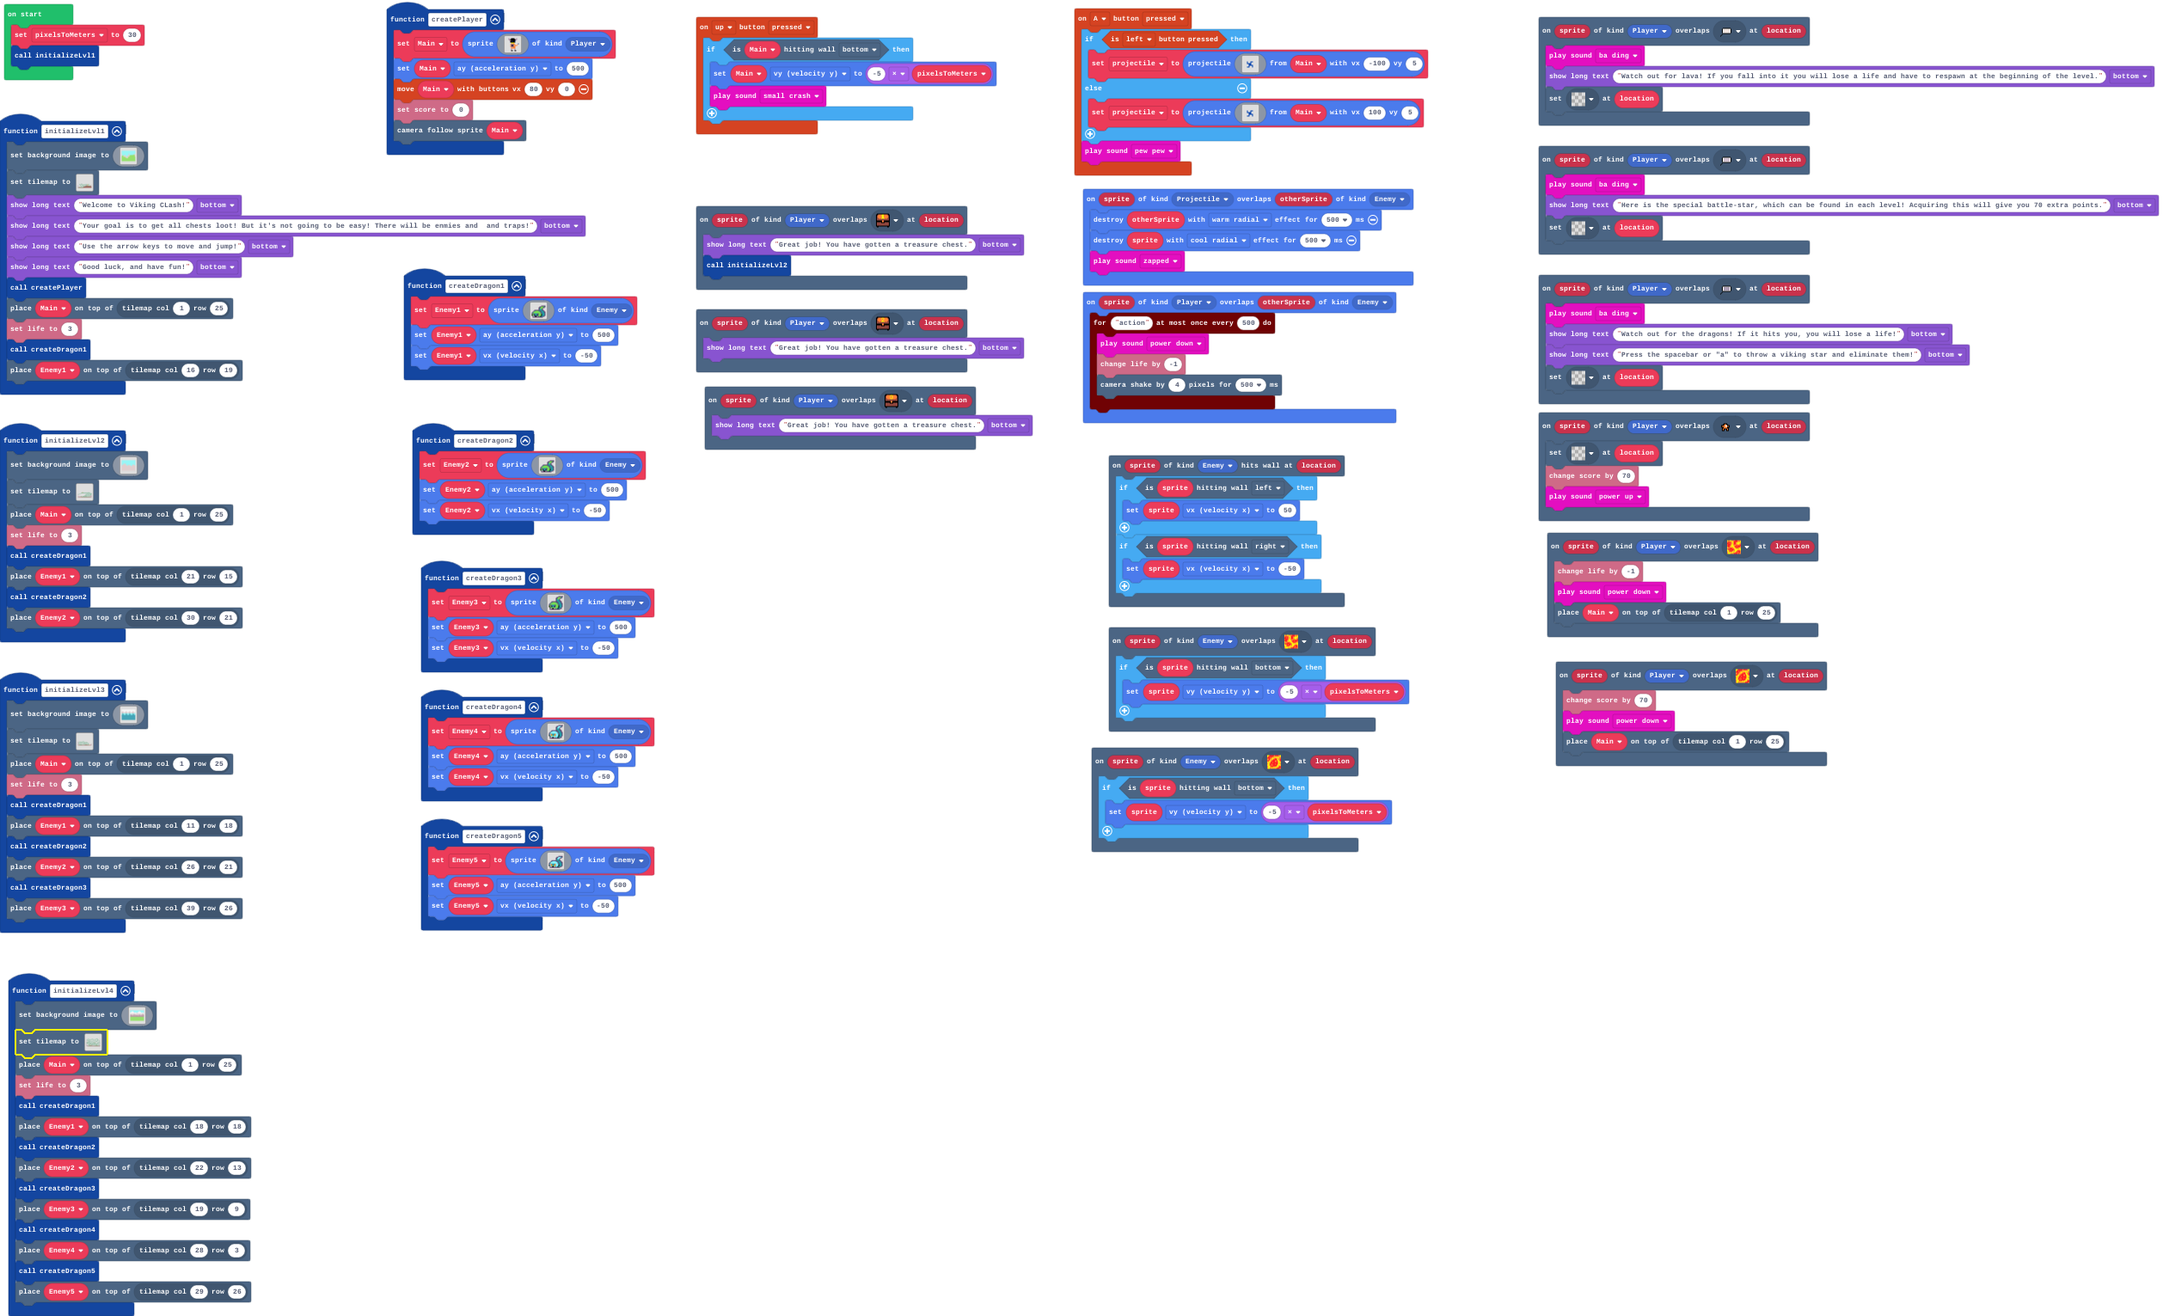
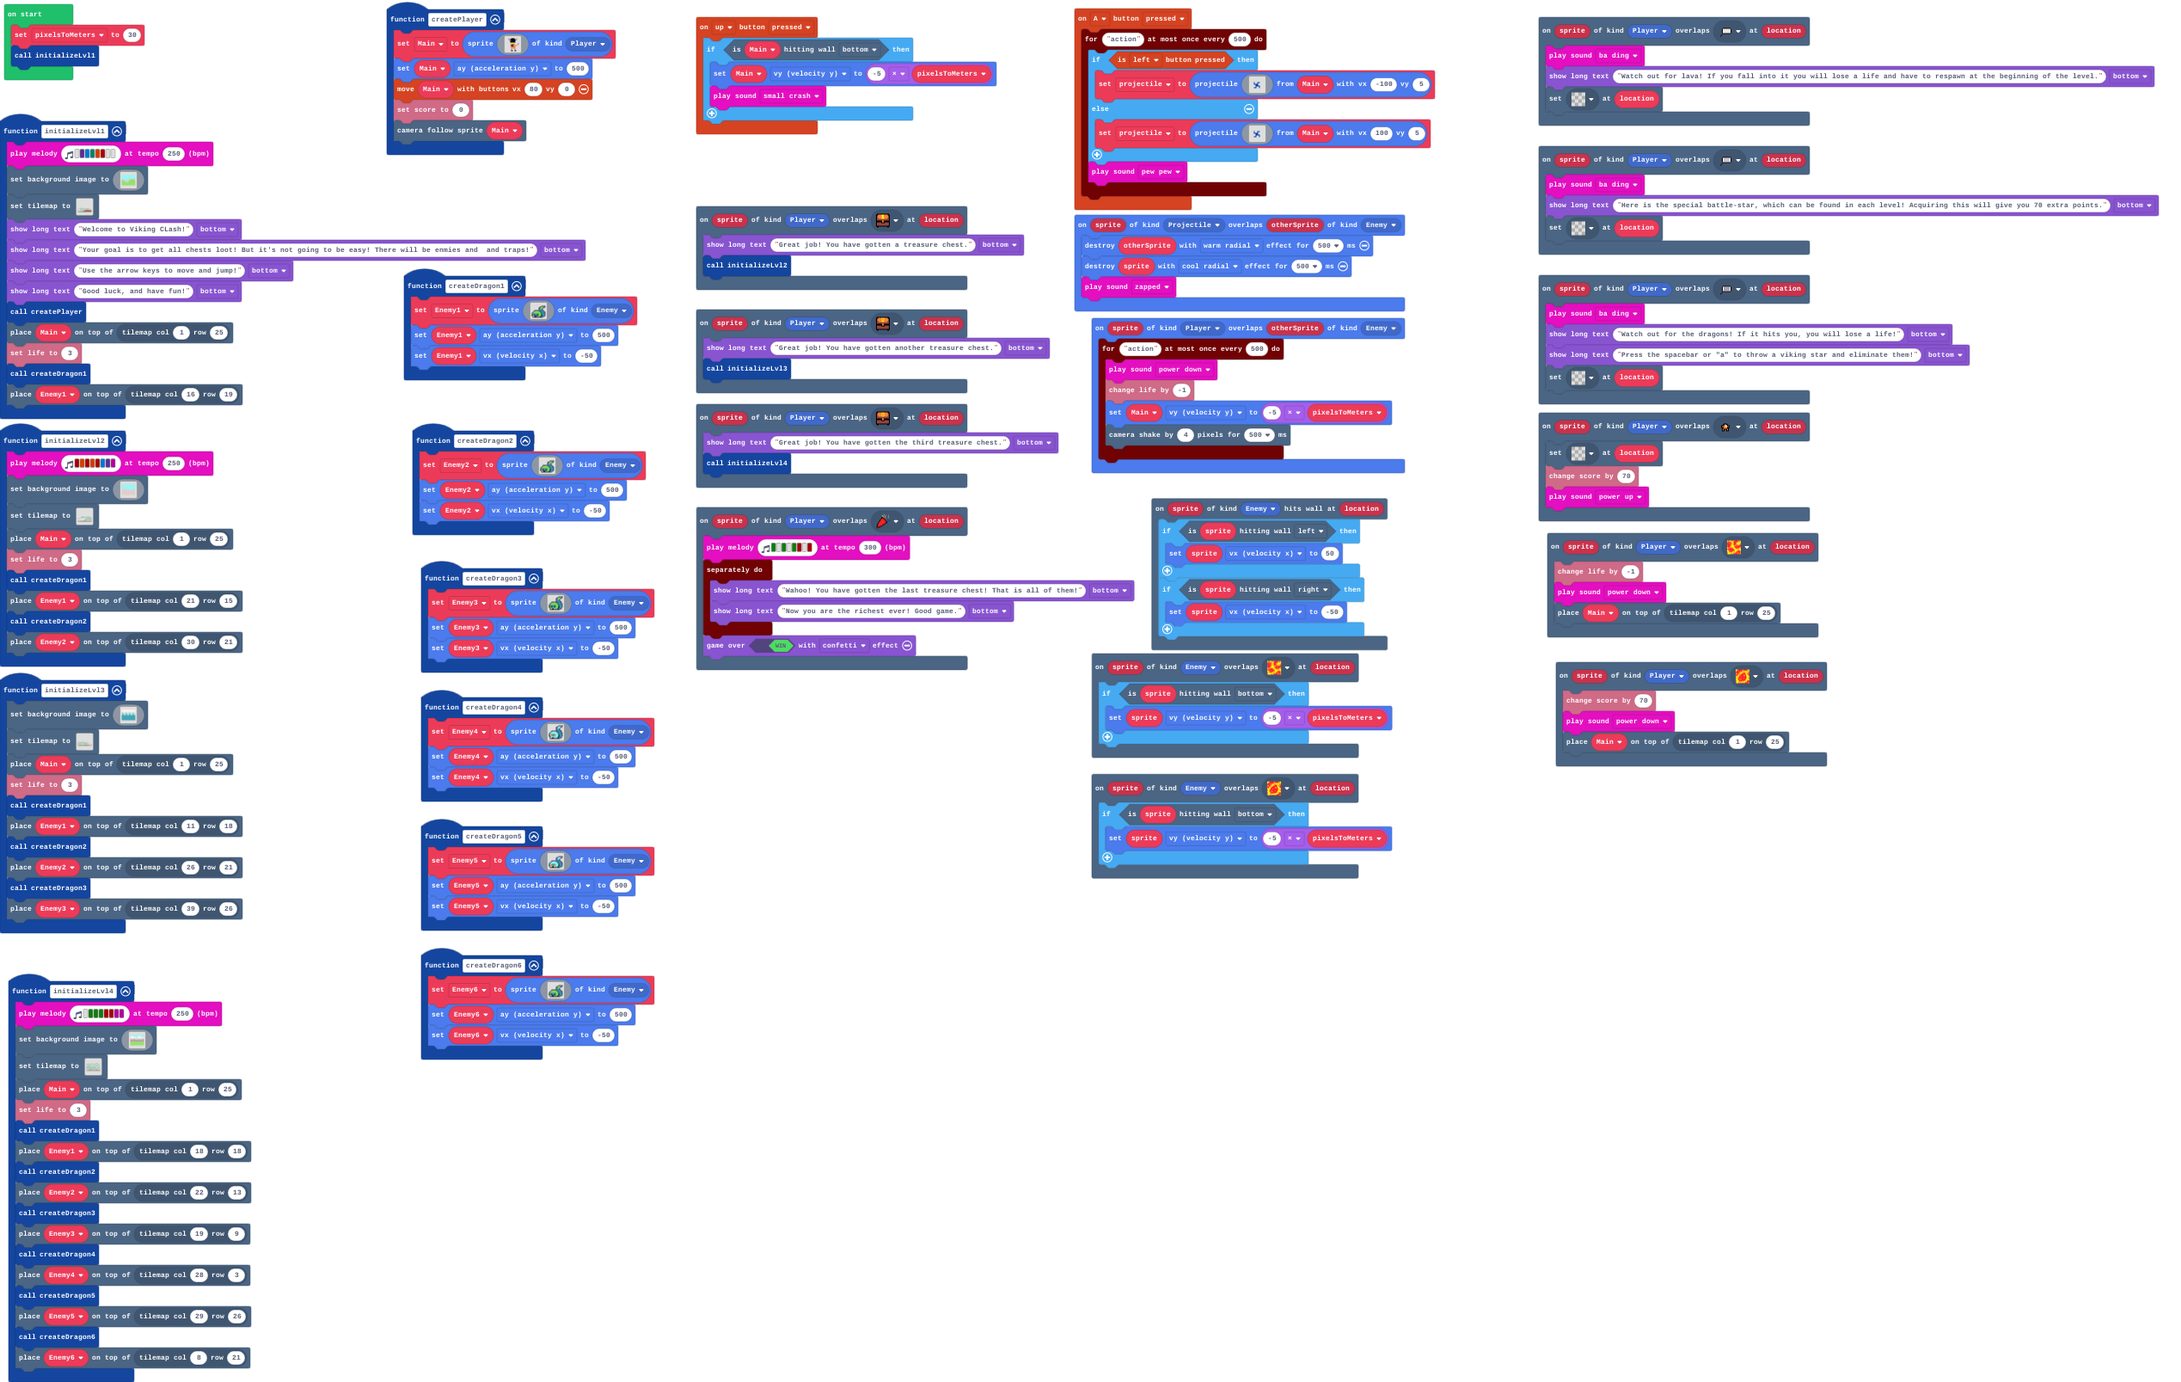
finished-1

Changed region(s): [[0.0, 0.0, 0.6539, 1.0], [0.6851, 0.0, 0.9965, 0.5833], [0.1557, 0.0, 0.2803, 0.1228]]

diff --git a/tilemap.g.ts b/tilemap.g.ts
@@ -25,9 +25,9 @@ namespace myTiles {
     //% fixedInstance jres blockIdentity=images._tile
     export const tile4 = image.ofBuffer(hex``);
     //% fixedInstance jres blockIdentity=images._tile
-    export const tile12 = image.ofBuffer(hex``);
-    //% fixedInstance jres blockIdentity=images._tile
     export const tile13 = image.ofBuffer(hex``);
+    //% fixedInstance jres blockIdentity=images._tile
+    export const tile12 = image.ofBuffer(hex``);
 
     helpers._registerFactory("tilemap", function(name: string) {
         switch(helpers.stringTrim(name)) {
@@ -50,39 +50,6 @@ namespace myTiles {
 . . . . . . . . . . . . . . . . 
 . . . . . . . . . . . . . . . . 
 `, [myTiles.transparency16], TileScale.Sixteen);
-            case "lvl2":
[1 lines of base64/hex data omitted]
-........................................
-........................................
-........................................
-........................................
-........................................
-........................................
-........................................
-........................................
-........................................
-........................................
-........................................
-........................................
-........................................
-........................................
-........................................
-........................................
-............2..2...............2........
-..........22222222222222222222222222....
-.........2............................2.
-........2............................222
-....2.2...................2........2..22
-..2......................2.22222222.2.2.
-2......................22.............2.
-2.....................2..............2..
-2....................2..2222222222222..2
-2...................2.2................2
-222...............2....2.............222
-2222......2......2...2..2...........2222
-222222222.222222222222222222222222222222
-........................................
-`, [myTiles.transparency16,myTiles.tile3,myTiles.tile1,myTiles.tile6,myTiles.tile8,sprites.builtin.forestTiles0,sprites.builtin.forestTiles2,sprites.dungeon.floorDark1,sprites.dungeon.floorDark0,sprites.dungeon.floorLightMoss,sprites.dungeon.floorLight4,sprites.dungeon.floorLight1,sprites.dungeon.floorLight0,sprites.dungeon.floorDarkDiamond,sprites.dungeon.floorDark4,sprites.dungeon.hazardLava0,myTiles.tile4,sprites.castle.rock0,sprites.dungeon.hazardLava1,sprites.dungeon.floorMixed,sprites.dungeon.floorLight5], TileScale.Sixteen);
             case "level6":
             case "level6":return tiles.createTilemap(hex`1000100000000000000000000000000000000000000000000000000000000000000000000000000000000000000000000000000000000000000000000000000000000000000000000000000000000000000000000000000000000000000000000000000000000000000000000000000000000000000000000000000000000000000000000000000000000000000000000000000000000000000000000000000000000000000000000000000000000000000000000000000000000000000000000000000000000000000000000000000000000000000000000000000000000000000000000000000000000000000000000000000000000000000000000000000000000000`, img`
 . . . . . . . . . . . . . . . . 
@@ -135,39 +102,6 @@ namespace myTiles {
 2222.222222222222222222222.........222222..2222222
 ..................................................
 `, [myTiles.transparency16,myTiles.tile3,myTiles.tile1,sprites.dungeon.floorMixed,sprites.dungeon.floorDark0,sprites.dungeon.floorDark1,sprites.dungeon.floorDark4,sprites.dungeon.floorLightMoss,sprites.dungeon.floorLight4,myTiles.tile2,myTiles.tile4,sprites.builtin.forestTiles2,sprites.builtin.forestTiles0,sprites.dungeon.floorLight1,sprites.dungeon.floorLight0,sprites.dungeon.floorDarkDiamond,sprites.builtin.forestTiles1,sprites.builtin.forestTiles22,sprites.builtin.forestTiles23,sprites.dungeon.hazardLava0,myTiles.tile11,myTiles.tile6,sprites.dungeon.hazardLava1], TileScale.Sixteen);
-            case "lvl1":
[1 lines of base64/hex data omitted]
-........................................
-........................................
-........................................
-........................................
-........................................
-........................................
-........................................
-........................................
-........................................
-........................................
-........................................
-........................................
-........................................
-........................................
-........................................
-........................................
-........................................
-........................................
-........................................
-....2...2222............................
-.....2......2.........222222.2222.......
-......2......222222222...........2.....2
-2......2................22.............2
-2.......2..............2...2.2........22
-2........22222222.....22.222222222222222
-2.................2.22222222222222222222
-22...............22222222222222222222222
-22......2.......222222222222222222222222
-222222.222222222222222222222222222222222
-2222222222222222222222222222222222222222
-`, [myTiles.transparency16,sprites.builtin.forestTiles22,myTiles.tile1,myTiles.tile2,sprites.dungeon.floorLightMoss,sprites.dungeon.floorDark1,sprites.dungeon.floorDark4,sprites.dungeon.floorMixed,sprites.dungeon.floorLight4,sprites.builtin.forestTiles4,myTiles.tile3,sprites.builtin.forestTiles2,sprites.builtin.forestTiles1,sprites.builtin.forestTiles3,sprites.castle.rock1,sprites.castle.rock0,myTiles.tile4,myTiles.tile5,sprites.dungeon.hazardLava1,myTiles.tile6,myTiles.tile7,sprites.builtin.forestTiles0,sprites.dungeon.hazardLava0,sprites.dungeon.floorLight1,sprites.dungeon.floorLight0,myTiles.tile10,myTiles.tile13], TileScale.Sixteen);
             case "level7":
             case "level7":return tiles.createTilemap(hex`1000100000000000000000000000000000000000000000000000000000000000000000000000000000000000000000000000000000000000000000000000000000000000000000000000000000000000000000000000000000000000000000000000000000000000000000000000000000000000000000000000000000000000000000000000000000000000000000000000000000000000000000000000000000000000000000000000000000000000000000000000000000000000000000000000000000000000000000000000000000000000000000000000000000000000000000000000000000000000000000000000000000000000000000000000000000000000`, img`
 . . . . . . . . . . . . . . . . 
@@ -220,6 +154,72 @@ namespace myTiles {
 222222222222222.22222222222222222222.2222222222222
 222222............................................
 `, [myTiles.transparency16,myTiles.tile1,sprites.dungeon.floorLightMoss,sprites.dungeon.floorDark1,sprites.dungeon.floorDark0,sprites.dungeon.floorMixed,sprites.dungeon.floorLight4,sprites.dungeon.floorDarkDiamond,sprites.dungeon.floorLight5,sprites.dungeon.floorDark2,sprites.dungeon.floorDark5,sprites.dungeon.floorLight2,sprites.builtin.forestTiles2,myTiles.tile2,myTiles.tile6,myTiles.tile12,sprites.builtin.forestTiles0,sprites.dungeon.floorLight1,sprites.dungeon.floorLight0,sprites.dungeon.hazardLava1,sprites.dungeon.hazardLava0,myTiles.tile4,sprites.dungeon.floorDark4], TileScale.Sixteen);
+            case "lvl2":
[1 lines of base64/hex data omitted]
+........................................
+........................................
+........................................
+........................................
+........................................
+........................................
+........................................
+........................................
+........................................
+........................................
+........................................
+........................................
+........................................
+........................................
+........................................
+........................................
+............2..2...............2........
+..........22222222222222222222222222....
+.........2............................2.
+........2............................222
+....2.2...................2........2..22
+..2......................2.22222222.2.2.
+2......................22.............2.
+2.....................2..............2..
+2....................2..2222222222222..2
+2...................2.2................2
+222...............2....2.............222
+2222......2......2.2....2...........2222
+222222222.222222222222222222222222222222
+........................................
+`, [myTiles.transparency16,myTiles.tile3,myTiles.tile1,myTiles.tile6,myTiles.tile8,sprites.builtin.forestTiles0,sprites.builtin.forestTiles2,sprites.dungeon.floorDark1,sprites.dungeon.floorDark0,sprites.dungeon.floorLightMoss,sprites.dungeon.floorLight4,sprites.dungeon.floorLight1,sprites.dungeon.floorLight0,sprites.dungeon.floorDarkDiamond,sprites.dungeon.floorDark4,sprites.dungeon.hazardLava0,myTiles.tile4,sprites.castle.rock0,sprites.dungeon.hazardLava1,sprites.dungeon.floorMixed,sprites.dungeon.floorLight5], TileScale.Sixteen);
+            case "lvl1":
[1 lines of base64/hex data omitted]
+........................................
+........................................
+........................................
+........................................
+........................................
+........................................
+........................................
+........................................
+........................................
+........................................
+........................................
+........................................
+........................................
+........................................
+........................................
+........................................
+........................................
+2.......................................
+2.......................................
+2...2...2222...........................2
+2....2......2.........222222.2222......2
+2.....2......222222222...........2.....2
+2......2...............................2
+2.......2..................2.2........22
+2........22222222.....22.222222222222222
+2.................2.22222222222222222222
+22...............22222222222222222222222
+22......2.......222222222222222222222222
+222222.222222222222222222222222222222222
+2222222222222222222222222222222222222222
+`, [myTiles.transparency16,sprites.builtin.forestTiles22,myTiles.tile1,myTiles.tile2,sprites.dungeon.floorLightMoss,sprites.dungeon.floorDark1,sprites.dungeon.floorDark4,sprites.dungeon.floorMixed,sprites.dungeon.floorLight4,sprites.builtin.forestTiles4,myTiles.tile3,sprites.builtin.forestTiles2,sprites.builtin.forestTiles1,sprites.builtin.forestTiles3,sprites.castle.rock1,myTiles.tile4,myTiles.tile5,sprites.dungeon.hazardLava1,myTiles.tile6,myTiles.tile7,sprites.builtin.forestTiles0,sprites.dungeon.hazardLava0,sprites.dungeon.floorLight1,sprites.dungeon.floorLight0,myTiles.tile10,myTiles.tile13], TileScale.Sixteen);
         }
         return null;
     })
@@ -249,10 +249,10 @@ namespace myTiles {
             case "tile7":return tile7;
             case "battleStar":
             case "tile4":return tile4;
-            case "chest4":
-            case "tile12":return tile12;
             case "Chat3":
             case "tile13":return tile13;
+            case "confetti":
+            case "tile12":return tile12;
         }
         return null;
     })

diff --git a/main.ts b/main.ts
@@ -10,12 +10,14 @@ function createDragon4 () {
     Enemy4.vx = -50
 }
 controller.A.onEvent(ControllerButtonEvent.Pressed, function () {
-    if (controller.left.isPressed()) {
-        projectile = sprites.createProjectileFromSprite(assets.image`vikingStar`, Main, -100, 5)
-    } else {
-        projectile = sprites.createProjectileFromSprite(assets.image`vikingStar`, Main, 100, 5)
-    }
-    music.pewPew.play()
+    timer.throttle("action", 500, function () {
+        if (controller.left.isPressed()) {
+            projectile = sprites.createProjectileFromSprite(assets.image`vikingStar`, Main, -100, 5)
+        } else {
+            projectile = sprites.createProjectileFromSprite(assets.image`vikingStar`, Main, 100, 5)
+        }
+        music.pewPew.play()
+    })
 })
 scene.onOverlapTile(SpriteKind.Player, sprites.dungeon.hazardLava0, function (sprite, location) {
     info.changeScoreBy(70)
@@ -28,6 +30,7 @@ scene.onOverlapTile(SpriteKind.Enemy, sprites.dungeon.hazardLava1, function (spr
     }
 })
 function initializeLvl2 () {
+    music.playMelody("C5 B C5 B C5 E D C ", 250)
     scene.setBackgroundImage(assets.image`backdrop2`)
     tiles.setTilemap(tilemap`lvl2`)
     tiles.placeOnTile(Main, tiles.getTileLocation(1, 25))
@@ -54,12 +57,18 @@ function createDragon5 () {
     Enemy5.ay = 500
     Enemy5.vx = -50
 }
+function createDragon6 () {
+    Enemy6 = sprites.create(assets.image`dragonEnemy6`, SpriteKind.Enemy)
+    Enemy6.ay = 500
+    Enemy6.vx = -50
+}
 scene.onOverlapTile(SpriteKind.Enemy, sprites.dungeon.hazardLava0, function (sprite, location) {
     if (sprite.isHittingTile(CollisionDirection.Bottom)) {
         sprite.vy = -5 * pixelsToMeters
     }
 })
 function initializeLvl1 () {
+    music.playMelody("- D E F B C5 - - ", 250)
     scene.setBackgroundImage(assets.image`backdrop1`)
     tiles.setTilemap(tilemap`lvl1`)
     game.showLongText("Welcome to Viking CLash!", DialogLayout.Bottom)
@@ -73,6 +82,7 @@ function initializeLvl1 () {
     tiles.placeOnTile(Enemy1, tiles.getTileLocation(16, 19))
 }
 function initializeLvl4 () {
+    music.playMelody("- G G G C5 C5 C C ", 250)
     scene.setBackgroundImage(img`
         9999999999999999999999999999999999999999999999999999999999999999999999999999999999999999999999999999999999999999999999999999999999999999999999999999999999999999
         9999999999999999999999999999999999999999999999999999999999999999999999999999999999999999999999999999999999999999999999999999999999999999999999999999999999999999
@@ -208,6 +218,8 @@ function initializeLvl4 () {
     tiles.placeOnTile(Enemy4, tiles.getTileLocation(28, 3))
     createDragon5()
     tiles.placeOnTile(Enemy5, tiles.getTileLocation(29, 26))
+    createDragon6()
+    tiles.placeOnTile(Enemy6, tiles.getTileLocation(8, 21))
 }
 scene.onOverlapTile(SpriteKind.Player, assets.tile`Chat1`, function (sprite, location) {
     music.baDing.play()
@@ -221,6 +233,14 @@ scene.onHitWall(SpriteKind.Enemy, function (sprite, location) {
     if (sprite.isHittingTile(CollisionDirection.Right)) {
         sprite.vx = -50
     }
+})
+scene.onOverlapTile(SpriteKind.Player, assets.tile`confetti`, function (sprite, location) {
+    music.playMelody("G - G - G C5 - C5 ", 300)
+    timer.background(function () {
+        game.showLongText("Wahoo! You have gotten the last treasure chest! That is all of them!", DialogLayout.Bottom)
+        game.showLongText("Now you are the richest ever! Good game.", DialogLayout.Bottom)
+    })
+    game.over(true, effects.confetti)
 })
 scene.onOverlapTile(SpriteKind.Player, sprites.dungeon.hazardLava1, function (sprite, location) {
     info.changeLifeBy(-1)
@@ -243,7 +263,8 @@ function createDragon3 () {
     Enemy3.vx = -50
 }
 scene.onOverlapTile(SpriteKind.Player, assets.tile`chest2`, function (sprite, location) {
-    game.showLongText("Great job! You have gotten a treasure chest.", DialogLayout.Bottom)
+    game.showLongText("Great job! You have gotten another treasure chest.", DialogLayout.Bottom)
+    initializeLvl3()
 })
 scene.onOverlapTile(SpriteKind.Player, assets.tile`Chat3`, function (sprite, location) {
     music.baDing.play()
@@ -273,7 +294,8 @@ function createPlayer () {
     scene.cameraFollowSprite(Main)
 }
 scene.onOverlapTile(SpriteKind.Player, assets.tile`chest3`, function (sprite, location) {
-    game.showLongText("Great job! You have gotten a treasure chest.", DialogLayout.Bottom)
+    game.showLongText("Great job! You have gotten the third treasure chest.", DialogLayout.Bottom)
+    initializeLvl4()
 })
 sprites.onOverlap(SpriteKind.Projectile, SpriteKind.Enemy, function (sprite, otherSprite) {
     otherSprite.destroy(effects.warmRadial, 500)
@@ -284,9 +306,11 @@ sprites.onOverlap(SpriteKind.Player, SpriteKind.Enemy, function (sprite, otherSp
     timer.throttle("action", 500, function () {
         music.powerDown.play()
         info.changeLifeBy(-1)
+        Main.vy = -5 * pixelsToMeters
         scene.cameraShake(4, 500)
     })
 })
+let Enemy6: Sprite = null
 let Enemy5: Sprite = null
 let Enemy3: Sprite = null
 let Enemy2: Sprite = null
